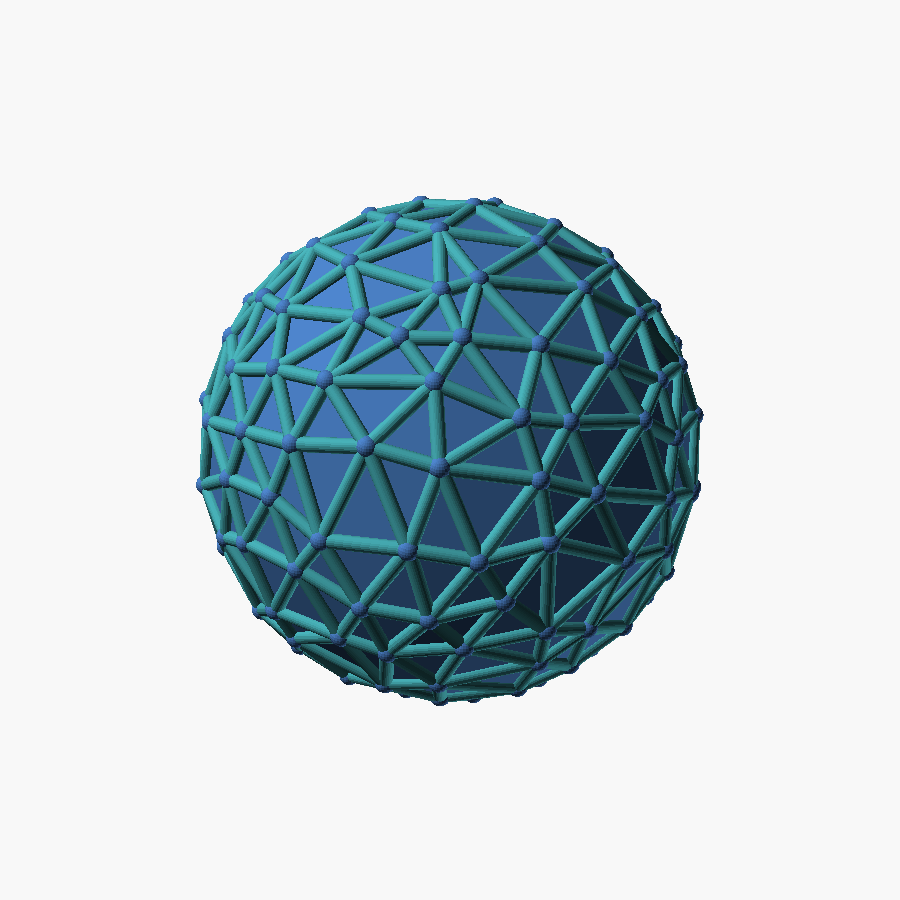
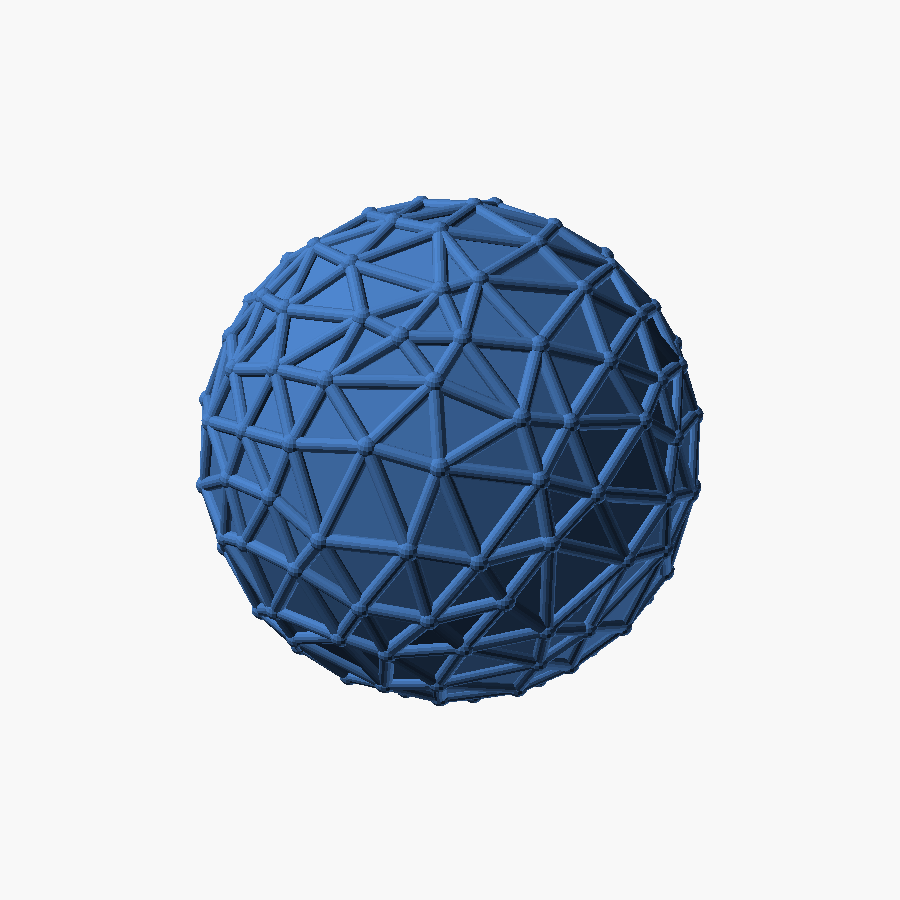
Shrink STL ~13x: binary export + cylinder struts
STL was ~25 MB (ASCII + hull-of-two-spheres per strut). Now:
- export binary STL (--export-format binstl) in render.sh and the viewer
  server -> ~5x smaller;
- struts are cylinders with node-sphere caps instead of hull() of two
  spheres -> far fewer triangles; strut_fn 24->16.
Result: geosphere ~1.9 MB, geosphere_large_triangles ~1.1 MB, no visible
change. README documents both levers.

Changed region(s): [[0.2178, 0.2178, 0.7778, 0.7778]]

diff --git a/teufelsberg-geosphere/generate_triangulated.py b/teufelsberg-geosphere/generate_triangulated.py
@@ -159,7 +159,7 @@ out.append("")
 out.append("R    = 15;    // sphere radius (mm)")
 out.append("rim  = 0.45;  // strut radius (mm) -> raised border thickness")
 out.append("node = 0.65;  // hub radius at each vertex (mm); set = rim to disable distinct hubs")
-out.append("strut_fn = 24;   // strut/hub roundness (segments); higher = rounder")
+out.append("strut_fn = 16;   // strut/hub roundness (segments); higher = rounder, heavier")
 out.append("")
 out.append("fill = true;  // true = filled opaque triangle panels; false = hollow see-through cage")
 out.append("")
@@ -178,11 +178,16 @@ for (a, b) in edges:
     out.append("  [%d, %d]," % (a, b))
 out.append("];")
 out.append("")
+out.append("// light strut = a cylinder a->b (far fewer triangles than a hull of two")
+out.append("// spheres); the node hubs cover the flat end caps.")
 out.append("module strut(i, j) {")
-out.append("  hull() {")
-out.append("    translate(verts[i] * R) sphere(rim, $fn = strut_fn);")
-out.append("    translate(verts[j] * R) sphere(rim, $fn = strut_fn);")
-out.append("  }")
+out.append("  a = verts[i] * R;")
+out.append("  b = verts[j] * R;")
+out.append("  d = b - a;")
+out.append("  h = norm(d);")
+out.append("  translate(a)")
+out.append("    rotate([0, acos(d[2] / h), atan2(d[1], d[0])])")
+out.append("      cylinder(h = h, r = rim, $fn = strut_fn);")
 out.append("}")
 out.append("")
 out.append("union() {")

diff --git a/teufelsberg-geosphere/README.md b/teufelsberg-geosphere/README.md
@@ -89,8 +89,19 @@ printf '#!/usr/bin/env bash\nexec %s/.local/opt/openscad-nightly/usr/bin/opensca
   > ~/.local/bin/openscad-manifold && chmod +x ~/.local/bin/openscad-manifold
 ```
 
+## STL size
+
+Two things keep the STL small (it was ~25 MB before):
+
+- **Binary STL** (`--export-format binstl`) — ~5× smaller than the CLI-default
+  ASCII. Used by `render.sh` and the live viewer.
+- **Cylinder struts** — each edge is a `cylinder` (node spheres cover the caps)
+  instead of a `hull()` of two spheres, which carried hundreds of triangles each.
+
+Result: ~1.9 MB (freq 4) / ~1.1 MB (freq 3). Lower `strut_fn` to shrink further.
+
 ## Render
 
 ```bash
-./render.sh      # uses openscad-manifold automatically when present
+./render.sh      # uses openscad-manifold automatically, exports binary STL
 ```